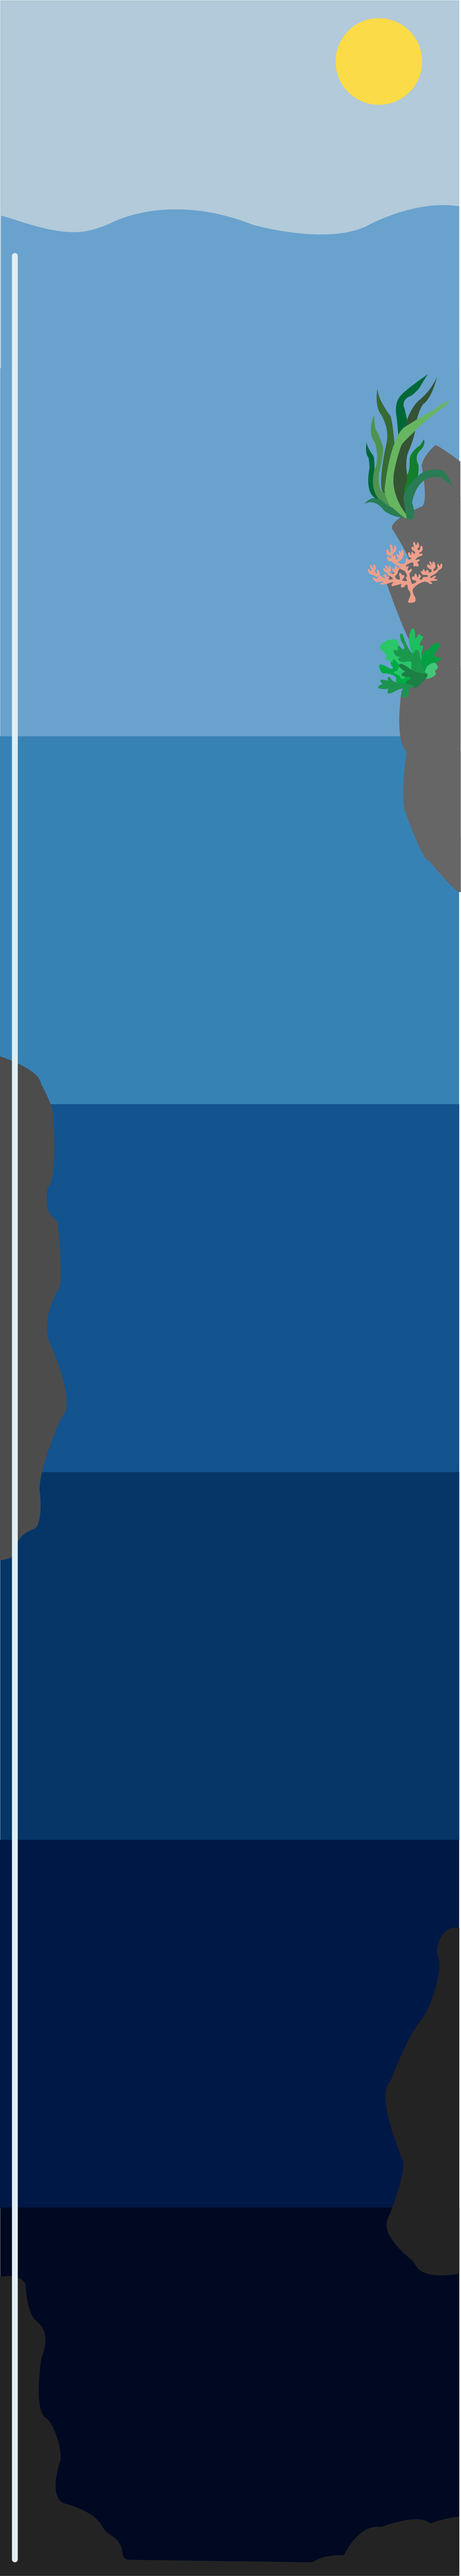
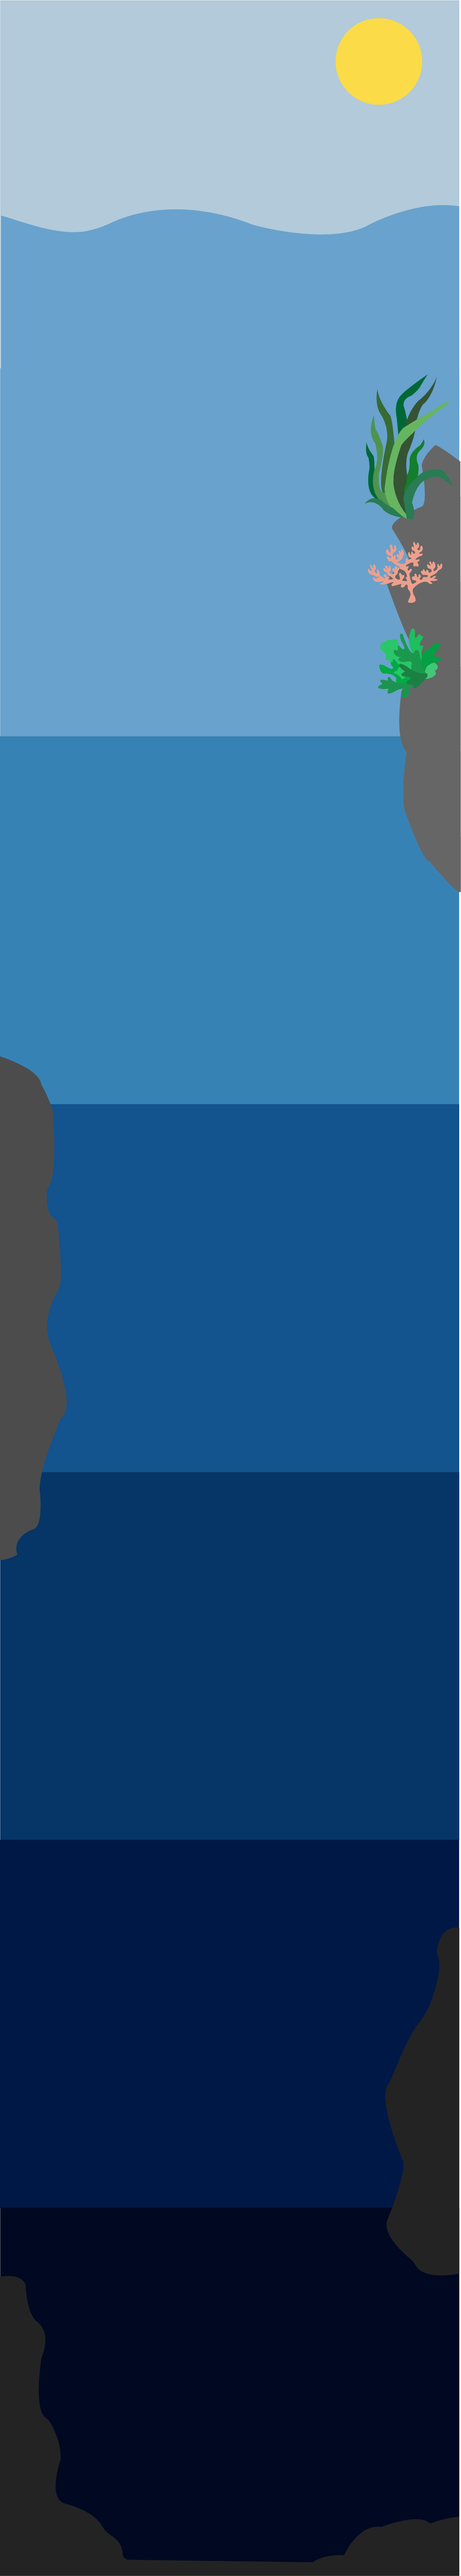
changes2601/02.all

Changed region(s): [[0.0, 0.0936, 0.062, 0.9988]]

diff --git a/main.js b/main.js
@@ -20,7 +20,6 @@ const depthRanges = [
 { start: 6000, end: 11000 } // Zone 5: Hadopelagial
 ];
 
-// Scroll-basierter Hintergrund-Parallax und U-Boot-Bewegung
 let ticking = false;
 window.addEventListener('scroll', () => {
 if (!ticking) {
@@ -28,7 +27,7 @@ window.requestAnimationFrame(() => {
 updateBackground();
 updateSubmarine();
 updateDepthMeter();
-updateMeterScroll(); // DAS MASSTBAND SCROLLT MIT
+updateMeterScroll();
 ticking = false;
 });
 ticking = true;
@@ -43,30 +42,42 @@ background.style.backgroundPosition = `center ${backgroundOffset}%`;
 
 function updateSubmarine() {
 const scrollPercent = window.scrollY / (document.documentElement.scrollHeight - window.innerHeight);
-const minTop = 15;
+// U-Boot bewegt sich von oben (bei den Wellen) nach unten
+const minTop = 35; // Startet bei den Wellen
 const maxTop = 75;
 const topPosition = minTop + (scrollPercent * (maxTop - minTop));
 const horizontalWave = Math.sin(scrollPercent * Math.PI * 4) * 8;
-const baseLeft = 8;
+const baseRight = 8;
 const rotation = Math.sin(scrollPercent * Math.PI * 6) * 8;
 
 submarine.style.top = `${topPosition}%`;
-submarine.style.left = `${baseLeft + horizontalWave}%`;
+submarine.style.right = `${baseRight + horizontalWave}%`;
 submarine.style.transform = `rotate(${rotation}deg)`;
 }
 
-// DAS MASSTBAND SCROLLT NACH UNTEN
+// WICHTIG: Das Maßband scrollt so, dass 0m bei den Wellen (Mitte) beginnt
 function updateMeterScroll() {
 const scrollPercent = window.scrollY / (document.documentElement.scrollHeight - window.innerHeight);
-// Das Maßband bewegt sich nach unten (von 0 bis -2500px)
-const meterTop = -(scrollPercent * 2500);
+// Berechnung: 
+// - Bei scrollPercent = 0 (ganz oben): 0m ist in der Bildschirmmitte (50vh)
+// - Marker ist bei 50vh
+// - Maßband muss so positioniert sein, dass 0m (=top des Maßbands) bei 50vh ist
+// - Also: top des Maßbands = 50vh bei Start
+// - Beim Scrollen bewegt sich das Maßband nach oben (negativ)
+
+const windowHeight = window.innerHeight;
+const meterStart = windowHeight * 0.5; // 0m beginnt bei 50vh (Mitte = Wellen)
+const totalScroll = 4500; // Wie weit das Maßband nach oben scrollt
+
+// top Position: Startet bei +50vh und geht bis -4000px
+const meterTop = meterStart - (scrollPercent * totalScroll);
 depthMeter.style.top = `${meterTop}px`;
 }
 
 function updateDepthMeter() {
 const scrollPercent = window.scrollY / (document.documentElement.scrollHeight - window.innerHeight);
 
-// Berechne aktuelle Tiefe basierend auf Scroll-Position
+// Berechne aktuelle Tiefe: 0m bei scrollPercent = 0, 11000m bei scrollPercent = 1
 let currentDepth = 0;
 const totalZones = depthRanges.length;
 const zoneProgress = scrollPercent * totalZones;
@@ -75,29 +86,38 @@ const zoneLocalProgress = zoneProgress - currentZoneIndex;
 const currentRange = depthRanges[currentZoneIndex];
 currentDepth = currentRange.start + (currentRange.end - currentRange.start) * zoneLocalProgress;
 
-// Animiere die Tiefenzahl mit GSAP
-gsap.to(depthValue, {
-innerText: Math.round(currentDepth),
-duration: 0.2,
-snap: { innerText: 1 },
-ease: "power1.out"
-});
+// Zeige die aktuelle Tiefe in der Anzeige
+depthValue.textContent = Math.round(currentDepth);
 
-// Ändere Marker-Farbe basierend auf Tiefe
+// Ändere Farben basierend auf Tiefe
 let markerColor = '#4db8ff';
 if (currentDepth > 6000) {
-markerColor = '#8b0000';
+markerColor = '#8b0000'; // Dunkelrot
 } else if (currentDepth > 4000) {
-markerColor = '#ff4444';
+markerColor = '#ff4444'; // Rot
 } else if (currentDepth > 1000) {
-markerColor = '#ff8844';
+markerColor = '#ff8844'; // Orange
 } else if (currentDepth > 200) {
-markerColor = '#ffaa44';
+markerColor = '#ffaa44'; // Gelb-Orange
 }
 
+// Ändere Marker-Farbe
 gsap.to(meterMarker, {
 background: markerColor,
 boxShadow: `0 0 20px ${markerColor}`,
+duration: 0.5
+});
+
+// Ändere Anzeige-Farbe
+gsap.to('.depth-display', {
+borderColor: markerColor,
+boxShadow: `0 0 30px ${markerColor}`,
+duration: 0.5
+});
+
+gsap.to('.depth-value', {
+color: markerColor,
+textShadow: `0 0 15px ${markerColor}`,
 duration: 0.5
 });
 }
@@ -128,13 +148,13 @@ const rect = section.getBoundingClientRect();
 if (rect.top <= window.innerHeight / 2 && rect.bottom >= window.innerHeight / 2) {
 if (currentZone !== index + 1) {
 currentZone = index + 1;
-console.log(`Aktuelle Zone: ${currentZone}`);
+console.log(`Aktuelle Zone: ${currentZone} - Tiefe: ${Math.round(parseFloat(depthValue.textContent))}m`);
 }
 }
 });
 });
 
-// Initiale Updates
+// INITIALE UPDATES
 updateSubmarine();
 updateDepthMeter();
 updateMeterScroll();

diff --git a/styles.css b/styles.css
@@ -18,18 +18,18 @@ top: 0;
 left: 0;
 width: 100%;
 height: 100%;
-background-image: url('U-Boot_Hintergrund.png');
+background-image: url('U-Boot_Hintergrund.jpg');
 background-size: cover;
 background-position: center top;
 background-repeat: no-repeat;
 z-index: -1;
 }
 
-/* U-Boot - GRÖSSER */
+/* U-Boot - STARTET IM WASSER BEI DEN WELLEN */
 .submarine {
 position: fixed;
-left: 10%;
-top: 20%;
+right: 8%;
+top: 35%;
 width: 250px;
 z-index: 5;
 transition: all 0.3s ease-out;
@@ -41,7 +41,35 @@ height: auto;
 filter: drop-shadow(4px 4px 8px rgba(0, 0, 0, 0.5));
 }
 
-/* Tiefenmaßband - SCROLLT MIT NACH UNTEN */
+/* Anzeige - OBEN MITTE - IMMER SICHTBAR - AUSSERHALB vom depth-meter */
+.depth-display {
+position: fixed;
+left: 50%;
+top: 30px;
+transform: translateX(-50%);
+background: rgba(0, 0, 0, 0.9);
+padding: 15px 30px;
+border-radius: 15px;
+border: 3px solid #4db8ff;
+white-space: nowrap;
+box-shadow: 0 0 30px rgba(77, 184, 255, 0.9);
+z-index: 100;
+}
+
+.depth-value {
+font-size: 32px;
+font-weight: bold;
+color: #4db8ff;
+text-shadow: 0 0 15px rgba(77, 184, 255, 1);
+}
+
+.depth-unit {
+font-size: 20px;
+color: #80d4ff;
+margin-left: 3px;
+}
+
+/* Tiefenmaßband - LINKS */
 .depth-meter {
 position: fixed;
 left: 30px;
@@ -50,14 +78,13 @@ z-index: 10;
 display: flex;
 align-items: flex-start;
 gap: 15px;
-transition: top 0.1s linear;
 }
 
-/* Sehr langes Maßband */
+/* Maßband Container - 0m bis 11000m = 12 Markierungen */
 .meter-container {
 position: relative;
 width: 60px;
-height: 3000px; /* SEHR LANG für alle Tiefenmeter */
+height: 5500px; /* Lang genug für 12 Markierungen */
 background: rgba(0, 0, 0, 0.7);
 border: 3px solid rgba(255, 255, 255, 0.5);
 border-radius: 30px;
@@ -83,19 +110,20 @@ background: linear-gradient(to bottom,
 );
 }
 
-/* Marker bleibt auf dem Bildschirm */
+/* Marker - BLEIBT IMMER IN DER MITTE */
 .meter-marker {
 position: fixed;
-left: 57px; /* 30px + 60px/2 - 18px */
-top: 50%;
+left: 57px;
+top: 50vh;
 transform: translateY(-50%);
 width: 35px;
 height: 35px;
-background: #ff6b6b;
+background: #4db8ff;
 border: 4px solid white;
 border-radius: 50%;
-box-shadow: 0 0 20px rgba(255, 107, 107, 1);
-z-index: 15;
+box-shadow: 0 0 20px rgba(77, 184, 255, 1);
+z-index: 20;
+pointer-events: none;
 }
 
 .meter-marker::before {
@@ -110,42 +138,14 @@ background: white;
 border-radius: 50%;
 }
 
-/* Anzeige am Marker */
-.depth-display {
-position: fixed;
-left: 120px;
-top: 50%;
-transform: translateY(-50%);
-background: rgba(0, 0, 0, 0.9);
-padding: 8px 15px;
-border-radius: 10px;
-border: 2px solid #4db8ff;
-white-space: nowrap;
-box-shadow: 0 0 20px rgba(77, 184, 255, 0.8);
-z-index: 15;
-}
-
-.depth-value {
-font-size: 22px;
-font-weight: bold;
-color: #4db8ff;
-text-shadow: 0 0 10px rgba(77, 184, 255, 0.8);
-}
-
-.depth-unit {
-font-size: 14px;
-color: #80d4ff;
-margin-left: 2px;
-}
-
-/* Skala links vom Meter - scrollt MIT */
+/* Skala - 12 Markierungen von 0m bis 11000m */
 .meter-scale {
 display: flex;
 flex-direction: column;
 justify-content: flex-start;
-height: 3000px;
+height: 5500px;
 order: -1;
-gap: 273px; /* 3000px / 11 Markierungen */
+gap: 500px; /* 5500px / 11 Abstände = 500px zwischen den Markierungen */
 }
 
 .scale-mark {
@@ -338,10 +338,19 @@ color: #ff6b6b;
 }
 
 @media (max-width: 768px) {
-.submarine { width: 180px; left: 5%; }
+.submarine { width: 180px; right: 5%; }
 .depth-meter {
 left: 10px;
 transform: scale(0.85);
+}
+.depth-display {
+padding: 10px 20px;
+}
+.depth-value {
+font-size: 24px;
+}
+.depth-unit {
+font-size: 16px;
 }
 .main-title { font-size: 3em; }
 .subtitle { font-size: 1.5em; }

diff --git a/index.html b/index.html
@@ -10,30 +10,38 @@
 </head>
 <body>
 
+    <!-- Anzeige OBEN MITTE - IMMER SICHTBAR -->
+    <div class="depth-display">
+        <span class="depth-value">0</span><span class="depth-unit">m</span>
+    </div>
+
     <!-- Fixierter Hintergrund -->
     <div class="ocean-background"></div>
 
     <!-- U-Boot -->
     <div class="submarine">
-        <img src="Submarine.png" alt="Gelbes U-Boot">
+        <img src="Submarine.jpg" alt="Gelbes U-Boot">
     </div>
 
-    <!-- Tiefenmaßband -->
+    <!-- Tiefenmaßband mit korrekten Beschriftungen -->
     <div class="depth-meter">
         <div class="meter-scale">
             <div class="scale-mark"><span>0m</span></div>
+            <div class="scale-mark"><span>1000m</span></div>
             <div class="scale-mark"><span>2000m</span></div>
+            <div class="scale-mark"><span>3000m</span></div>
             <div class="scale-mark"><span>4000m</span></div>
+            <div class="scale-mark"><span>5000m</span></div>
             <div class="scale-mark"><span>6000m</span></div>
+            <div class="scale-mark"><span>7000m</span></div>
             <div class="scale-mark"><span>8000m</span></div>
+            <div class="scale-mark"><span>9000m</span></div>
+            <div class="scale-mark"><span>10000m</span></div>
             <div class="scale-mark"><span>11000m</span></div>
         </div>
         <div class="meter-container">
             <div class="meter-line"></div>
             <div class="meter-marker"></div>
-            <div class="depth-display">
-                <span class="depth-value">0</span><span class="depth-unit">m</span>
-            </div>
         </div>
     </div>
 
